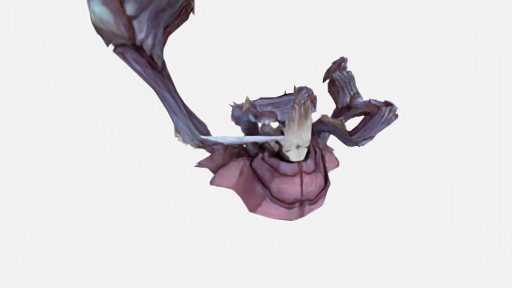
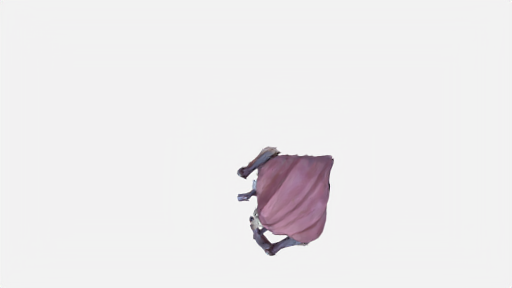
fbx camera issue wip

Changed region(s): [[0.1562, 0.0, 0.7812, 0.9062]]

diff --git a/core/utilities/fbx_mesh_loader.cpp b/core/utilities/fbx_mesh_loader.cpp
@@ -291,49 +291,133 @@ std::shared_ptr<hittable> fbx_mesh_loader::convert_model_from_file(fbx_mesh_data
     return std::make_shared<bvh_node>(model_output, rnd, name);
 }
 
-
+//scene::cameraConfig fbx_mesh_loader::convert_camera_from_file(fbx_mesh_data& data)
+//{
+//	scene::cameraConfig cam_config{};
+//	
+//	const ofbx::IScene* scene = data.scene;
+//	const int camera_count = scene->getCameraCount();
+//
+//	std::cout << "[INFO] Building FBX model (" << camera_count << " cameras found)" << std::endl;
+//
+//	for (int cam_idx = 0; cam_idx < camera_count; ++cam_idx)
+//	{
+//		const ofbx::Camera* cam = scene->getCamera(cam_idx);
+//		if (cam)
+//		{
+//			if (cam->getProjectionType() == ofbx::Camera::ProjectionType::ORTHOGRAPHIC)
+//			{
+//				// orthographic camera
+//				cam_config.orthoHeight = 2;
+//				cam_config.fov = 0;
+//				cam_config.isOrthographic = true;
+//			}
+//			else
+//			{
+//				// perpspective camera
+//				cam_config.fov = cam->getFocalLength();
+//				cam_config.orthoHeight = 0;
+//				cam_config.isOrthographic = false;
+//			}
+//
+//			cam_config.aspectRatio = 1.77777;
+//			cam_config.lookFrom = vector3(cam->getInterestPosition().x, cam->getInterestPosition().y, cam->getInterestPosition().z);
+//			cam_config.lookAt = vector3(0.0, 0.0, 0.0);
+//			cam_config.upAxis = vector3(0.0, 1.0, 0.0);
+//
+//			cam_config.aperture = 0.0;
+//			cam_config.focus = cam->getFocusDistance();
+//			cam_config.openingTime = 0.0;
+//		}
+//	}
+//	
+//	return cam_config;
+//}
 
 scene::cameraConfig fbx_mesh_loader::convert_camera_from_file(fbx_mesh_data& data)
 {
-	scene::cameraConfig cam_config{};
-	
-	const ofbx::IScene* scene = data.scene;
-	const int camera_count = scene->getCameraCount();
+    scene::cameraConfig cam_config{};
 
-	std::cout << "[INFO] Building FBX model (" << camera_count << " cameras found)" << std::endl;
+    const ofbx::IScene* scene = data.scene;
+    const int camera_count = scene->getCameraCount();
 
-	for (int cam_idx = 0; cam_idx < camera_count; ++cam_idx)
-	{
-		const ofbx::Camera* cam = scene->getCamera(cam_idx);
-		if (cam)
-		{
-			if (cam->getProjectionType() == ofbx::Camera::ProjectionType::ORTHOGRAPHIC)
-			{
-				// orthographic camera
-				cam_config.orthoHeight = 2;
-				cam_config.fov = 0;
-				cam_config.isOrthographic = true;
-			}
-			else
-			{
-				// perpspective camera
-				cam_config.fov = cam->getFocalLength();
-				cam_config.orthoHeight = 0;
-				cam_config.isOrthographic = false;
-			}
+    std::cout << "[INFO] Building FBX model (" << camera_count << " cameras found)" << std::endl;
 
-			cam_config.aspectRatio = 1.77777;
-			cam_config.lookFrom = vector3(cam->getInterestPosition().x, cam->getInterestPosition().y, cam->getInterestPosition().z);
-			cam_config.lookAt = vector3(0.0, 0.0, 0.0);
-			cam_config.upAxis = vector3(0.0, 1.0, 0.0);
+    for (int cam_idx = 0; cam_idx < camera_count; ++cam_idx)
+    {
+        const ofbx::Camera* cam = scene->getCamera(cam_idx);
+        if (cam)
+        {
+            if (cam->getProjectionType() == ofbx::Camera::ProjectionType::ORTHOGRAPHIC)
+            {
+                // Orthographic camera
+                cam_config.orthoHeight = 2;
+                cam_config.fov = 0;
+                cam_config.isOrthographic = true;
+            }
+            else
+            {
+                // Perspective camera
+                cam_config.fov = cam->getFocalLength();
+                cam_config.orthoHeight = 0;
+                cam_config.isOrthographic = false;
+            }
 
-			cam_config.aperture = 0.0;
-			cam_config.focus = cam->getFocusDistance();
-			cam_config.openingTime = 0.0;
-		}
-	}
-	
-	return cam_config;
+            cam_config.aspectRatio = 1.77777; // Default aspect ratio
+
+            // Extract the camera's local transformation matrix
+            const ofbx::DMatrix cam_transform = cam->getLocalTransform();
+            matrix4x4 local_transform;
+
+            // Convert ofbx::DMatrix to your matrix4x4 structure
+            for (int i = 0; i < 4; ++i)
+                for (int j = 0; j < 4; ++j)
+                    local_transform.m[i][j] = cam_transform.m[i * 4 + j];
+
+            // Extract position from the local transform matrix (translation components)
+            vector3 look_from(
+                local_transform.m[0][3], // X position
+                local_transform.m[1][3], // Y position
+                local_transform.m[2][3]  // Z position
+            );
+
+            // Interest position (lookAt) - provided by OpenFBX
+            vector4 look_at(cam->getInterestPosition().x, cam->getInterestPosition().y, cam->getInterestPosition().z, 1.0);
+
+            // Default up axis
+            vector3 up_axis_tmp = extractUpAxis(cam->getLocalTransform());
+            vector4 up_axis = vector4(up_axis_tmp.x, up_axis_tmp.y, up_axis_tmp.z, 0.0f);
+            up_axis = local_transform * up_axis;
+
+            // Assign the extracted values to the camera config
+            cam_config.lookFrom = look_from;
+            cam_config.lookAt = vector3(look_at.x, look_at.y, look_at.z);
+            cam_config.upAxis = vector3(up_axis.x, up_axis.y, up_axis.z);
+
+            // Additional camera properties
+            cam_config.aperture = 0.0;
+            cam_config.focus = cam->getFocusDistance();
+            cam_config.openingTime = 0.0;
+
+            std::cout << "[INFO] Camera " << cam_idx
+                << " - LookFrom: (" << cam_config.lookFrom.x << ", " << cam_config.lookFrom.y << ", " << cam_config.lookFrom.z << ")"
+                << " LookAt: (" << cam_config.lookAt.x << ", " << cam_config.lookAt.y << ", " << cam_config.lookAt.z << ")"
+                << " UpAxis: (" << cam_config.upAxis.x << ", " << cam_config.upAxis.y << ", " << cam_config.upAxis.z << ")"
+                << std::endl;
+        }
+    }
+
+    return cam_config;
+}
+
+vector3 fbx_mesh_loader::extractUpAxis(const ofbx::DMatrix& cam_transform)
+{
+    // The up axis is the second column of the local transform matrix
+    return vector3(
+        cam_transform.m[1 * 4 + 0], // X component of up axis
+        cam_transform.m[1 * 4 + 1], // Y component of up axis
+        cam_transform.m[1 * 4 + 2]  // Z component of up axis
+    );
 }
 
 
@@ -356,7 +440,7 @@ void fbx_mesh_loader::computeTangentBasis(std::array<vector3, 3>& vertices, std:
 }
 
 // Helper function to create a 4x4 transformation matrix
-matrix4x4 getLocalTransform(const ofbx::Mesh* mesh)
+matrix4x4 fbx_mesh_loader::getLocalTransform(const ofbx::Mesh* mesh)
 {
     auto scale = mesh->getLocalScaling();
     auto rotation = mesh->getLocalRotation();

diff --git a/core/utilities/matrix4x4.h b/core/utilities/matrix4x4.h
@@ -91,8 +91,59 @@ public:
         return result;
     }
 
-    // Compute the inverse transpose for normal transformations
-    matrix4x4 inverse() const;    // You can implement this using Gauss-Jordan elimination or libraries
-    matrix4x4 transpose() const;  // Transpose the matrix (swap rows and columns)
-};
 
+    // Transpose the matrix
+    matrix4x4 transpose() const {
+        matrix4x4 result;
+        for (int i = 0; i < 4; ++i) {
+            for (int j = 0; j < 4; ++j) {
+                result.m[i][j] = m[j][i];
+            }
+        }
+        return result;
+    }
+
+    // Compute the inverse of the matrix
+    matrix4x4 inverse() const {
+        matrix4x4 inv;
+        float temp[4][4];
+
+        // Copy current matrix into a temporary buffer
+        for (int i = 0; i < 4; ++i)
+            for (int j = 0; j < 4; ++j)
+                temp[i][j] = m[i][j];
+
+        // Create an identity matrix in 'inv'
+        for (int i = 0; i < 4; ++i)
+            for (int j = 0; j < 4; ++j)
+                inv.m[i][j] = (i == j) ? 1.0f : 0.0f;
+
+        // Gaussian elimination
+        for (int i = 0; i < 4; ++i) {
+            // Find pivot
+            float pivot = temp[i][i];
+            if (std::abs(pivot) < 1e-6f) {
+                throw std::runtime_error("Matrix is singular and cannot be inverted");
+            }
+
+            // Normalize the pivot row
+            for (int j = 0; j < 4; ++j) {
+                temp[i][j] /= pivot;
+                inv.m[i][j] /= pivot;
+            }
+
+            // Eliminate the current column in other rows
+            for (int k = 0; k < 4; ++k) {
+                if (k == i) continue;
+
+                float factor = temp[k][i];
+                for (int j = 0; j < 4; ++j) {
+                    temp[k][j] -= factor * temp[i][j];
+                    inv.m[k][j] -= factor * inv.m[i][j];
+                }
+            }
+        }
+
+        return inv;
+    }
+};

diff --git a/core/cameras/perspective_camera.cpp b/core/cameras/perspective_camera.cpp
@@ -26,6 +26,13 @@ void perspective_camera::initialize(const renderParameters& params)
     if (!params.quietMode)
         std::clog << "[INFO] Output image : " << image_width << " x " << image_height << "\n";
 
+    // Handle missing lookfrom: Default distance from the lookat point if lookfrom is unspecified.
+    if (glm::length(lookfrom) == 0.0f)
+    {
+        double default_distance = 10.0; // Default camera distance
+        vector3 default_direction(0.0, 0.0, -1.0); // Default forward direction
+        lookfrom = lookat - default_distance * default_direction;
+    }
 
     center = lookfrom;
 

diff --git a/core/utilities/fbx_mesh_loader.h b/core/utilities/fbx_mesh_loader.h
@@ -38,4 +38,6 @@ private:
 
     static matrix4x4 getLocalTransform(const ofbx::Mesh* mesh);
 
+    static vector3 extractUpAxis(const ofbx::DMatrix& cam_transform);
+
 };
